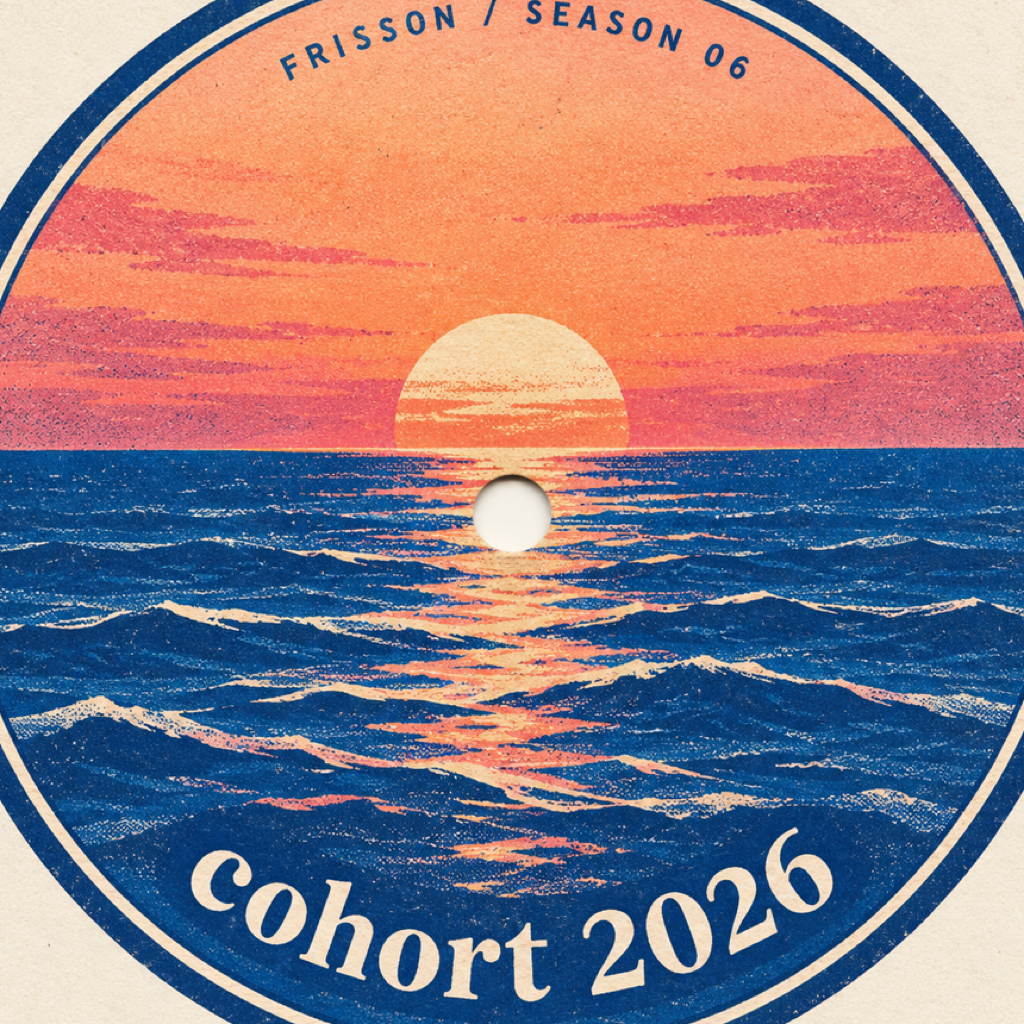
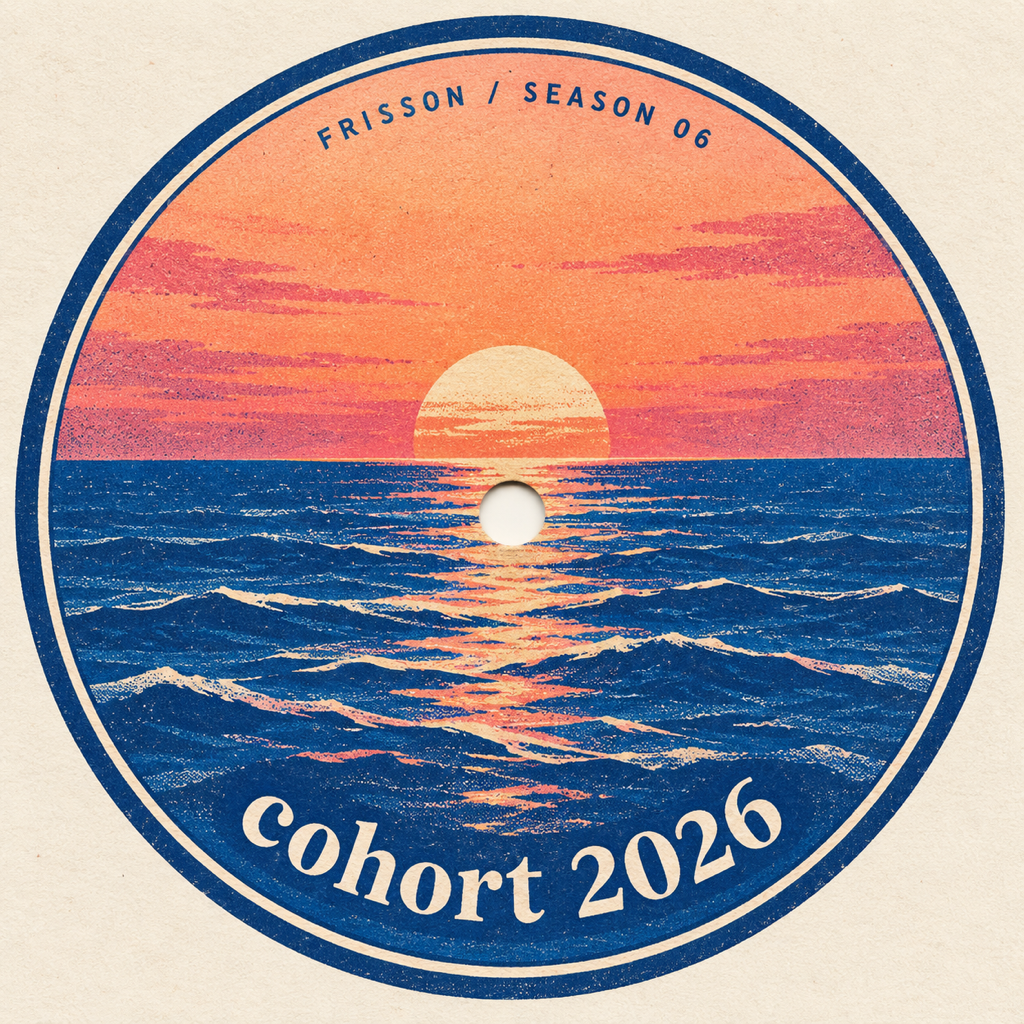
fix: preserve season 6 label lettering

diff --git a/components/CircularTimeMap.tsx b/components/CircularTimeMap.tsx
@@ -2111,7 +2111,11 @@ export default function CircularTimeMap() {
                     setCenterLabelImagePath(CENTER_LABEL_FALLBACK_IMAGE_PATH);
                   }
                 }}
-                style={{ width: "100%", height: "100%" }}
+                style={{
+                  width: "100%",
+                  height: "100%",
+                  transform: season === CURRENT_SEASON ? "scale(1.04)" : undefined,
+                }}
               />
             </button>
             <div className="pointer-events-none absolute left-1/2 top-1/2 h-[4.8%] w-[4.8%] -translate-x-1/2 -translate-y-1/2 rounded-full border border-black/45 bg-[radial-gradient(circle,#0a0a0a_0%,#111_48%,#050505_100%)] shadow-[inset_0_0_12px_rgba(255,255,255,0.05)]" />
